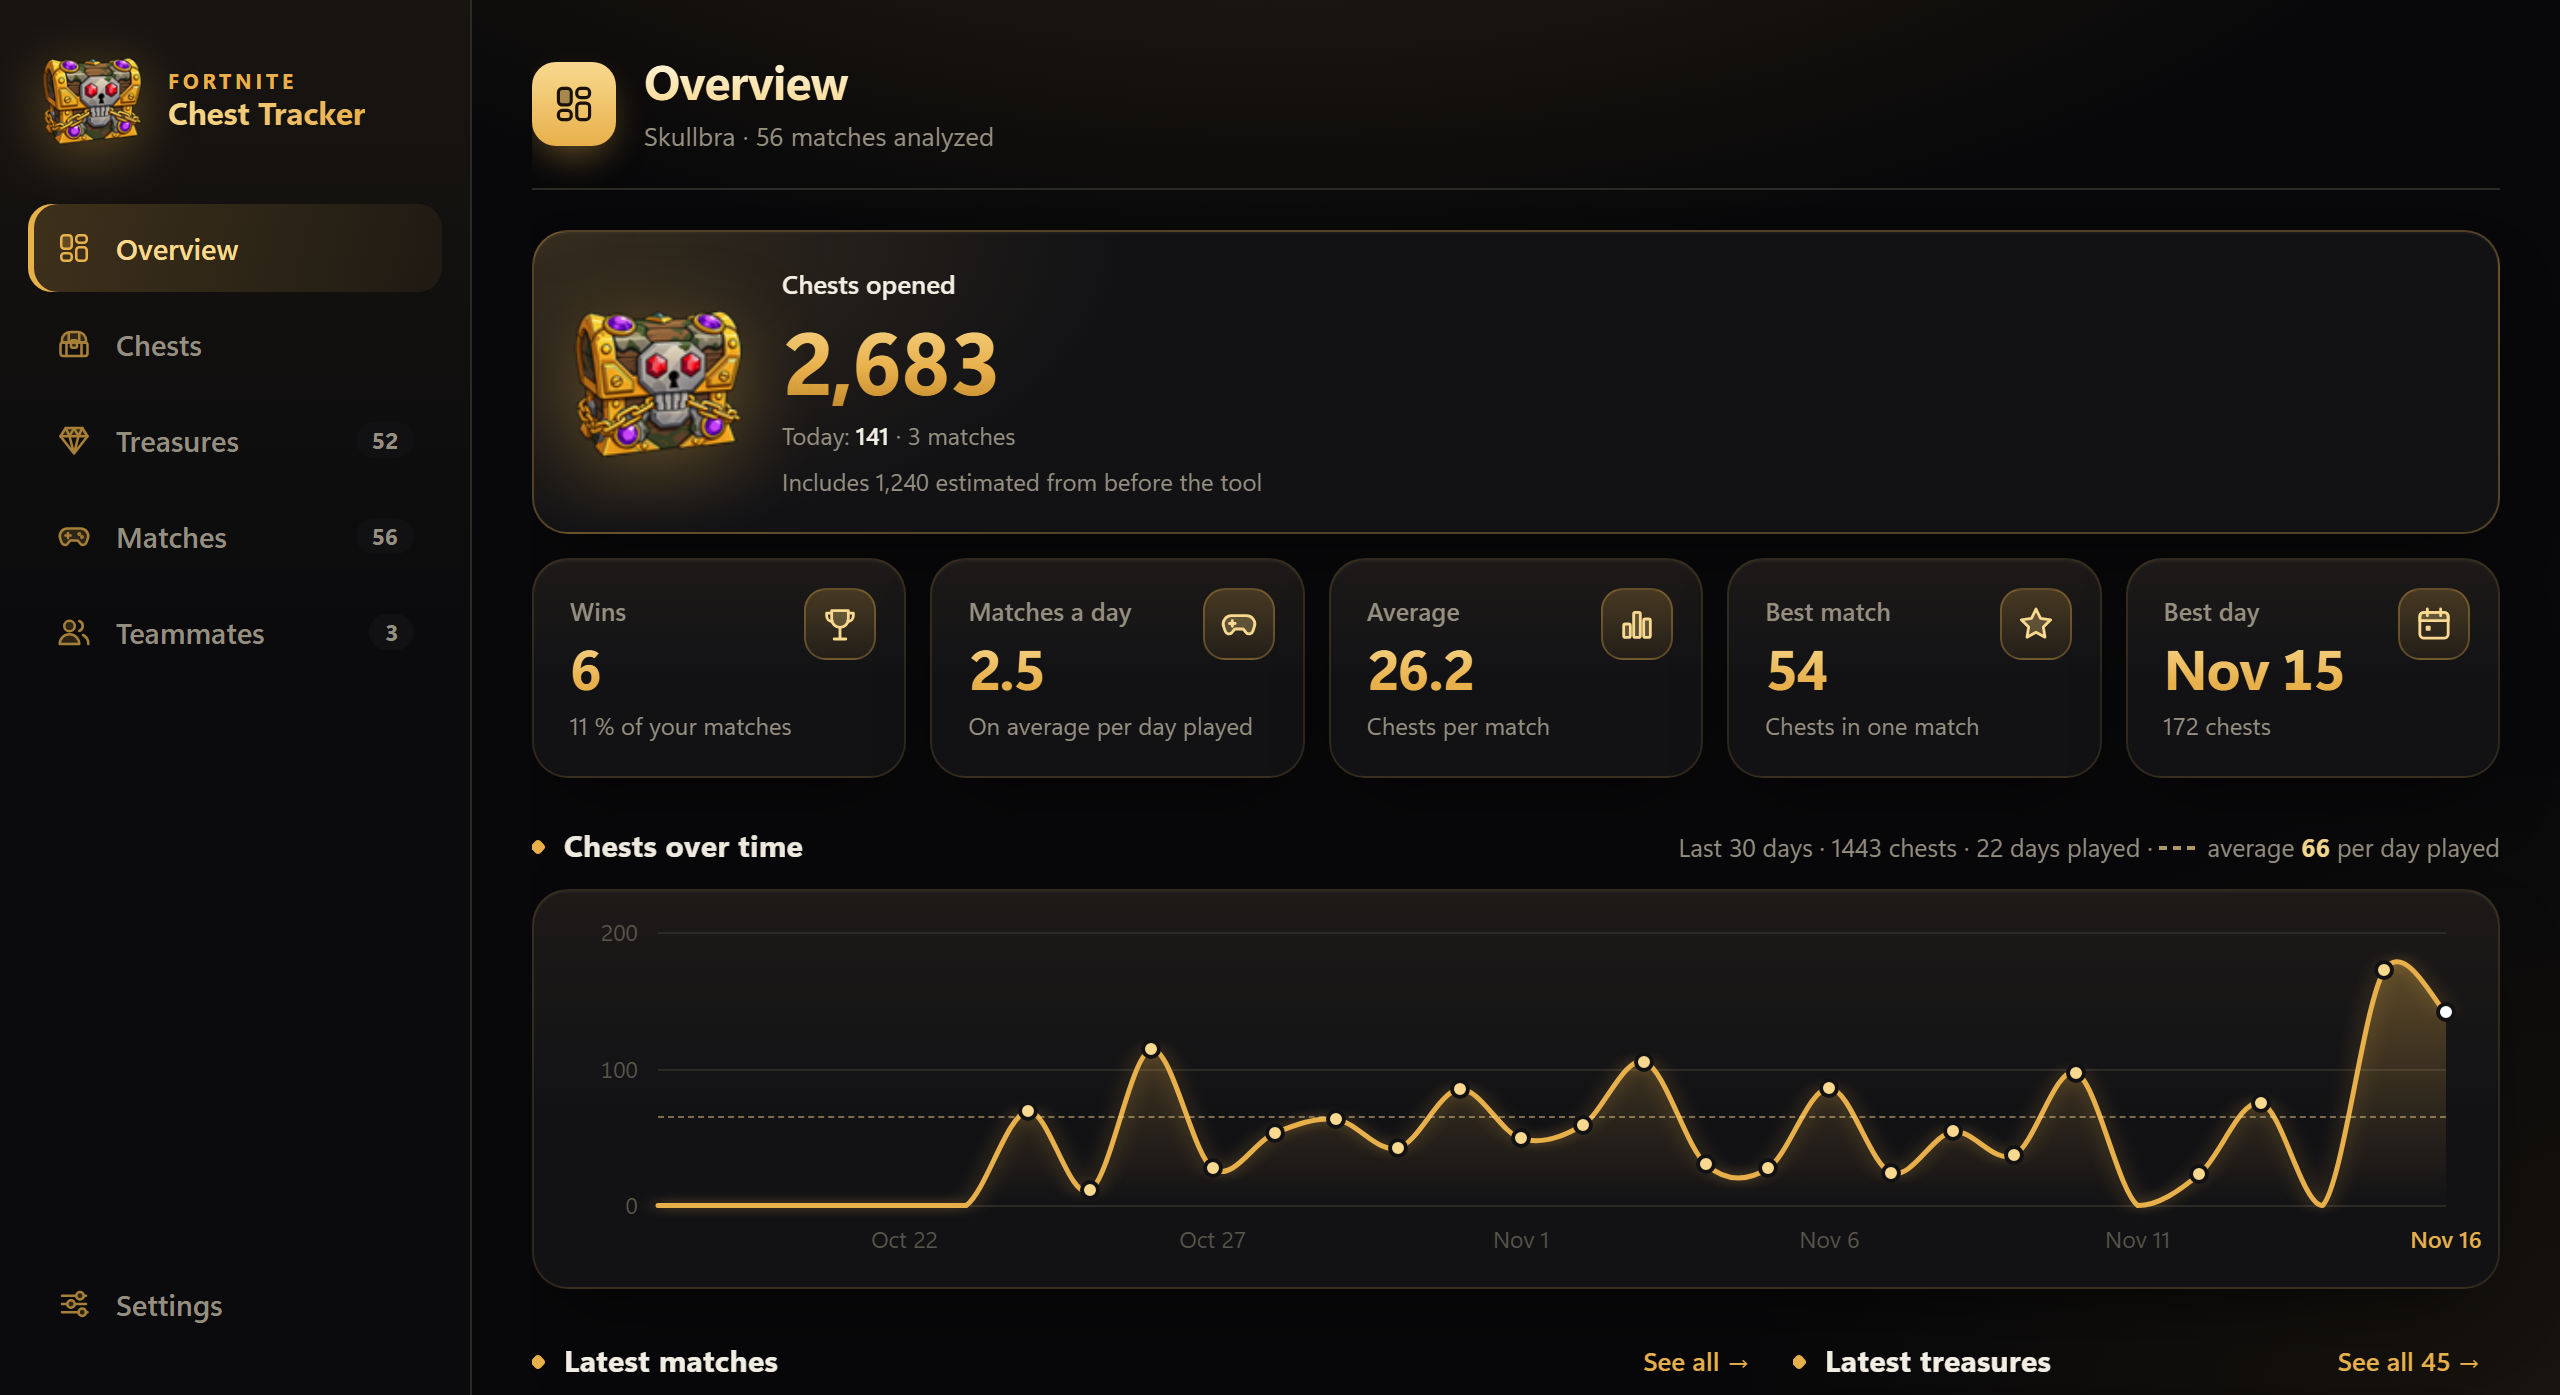
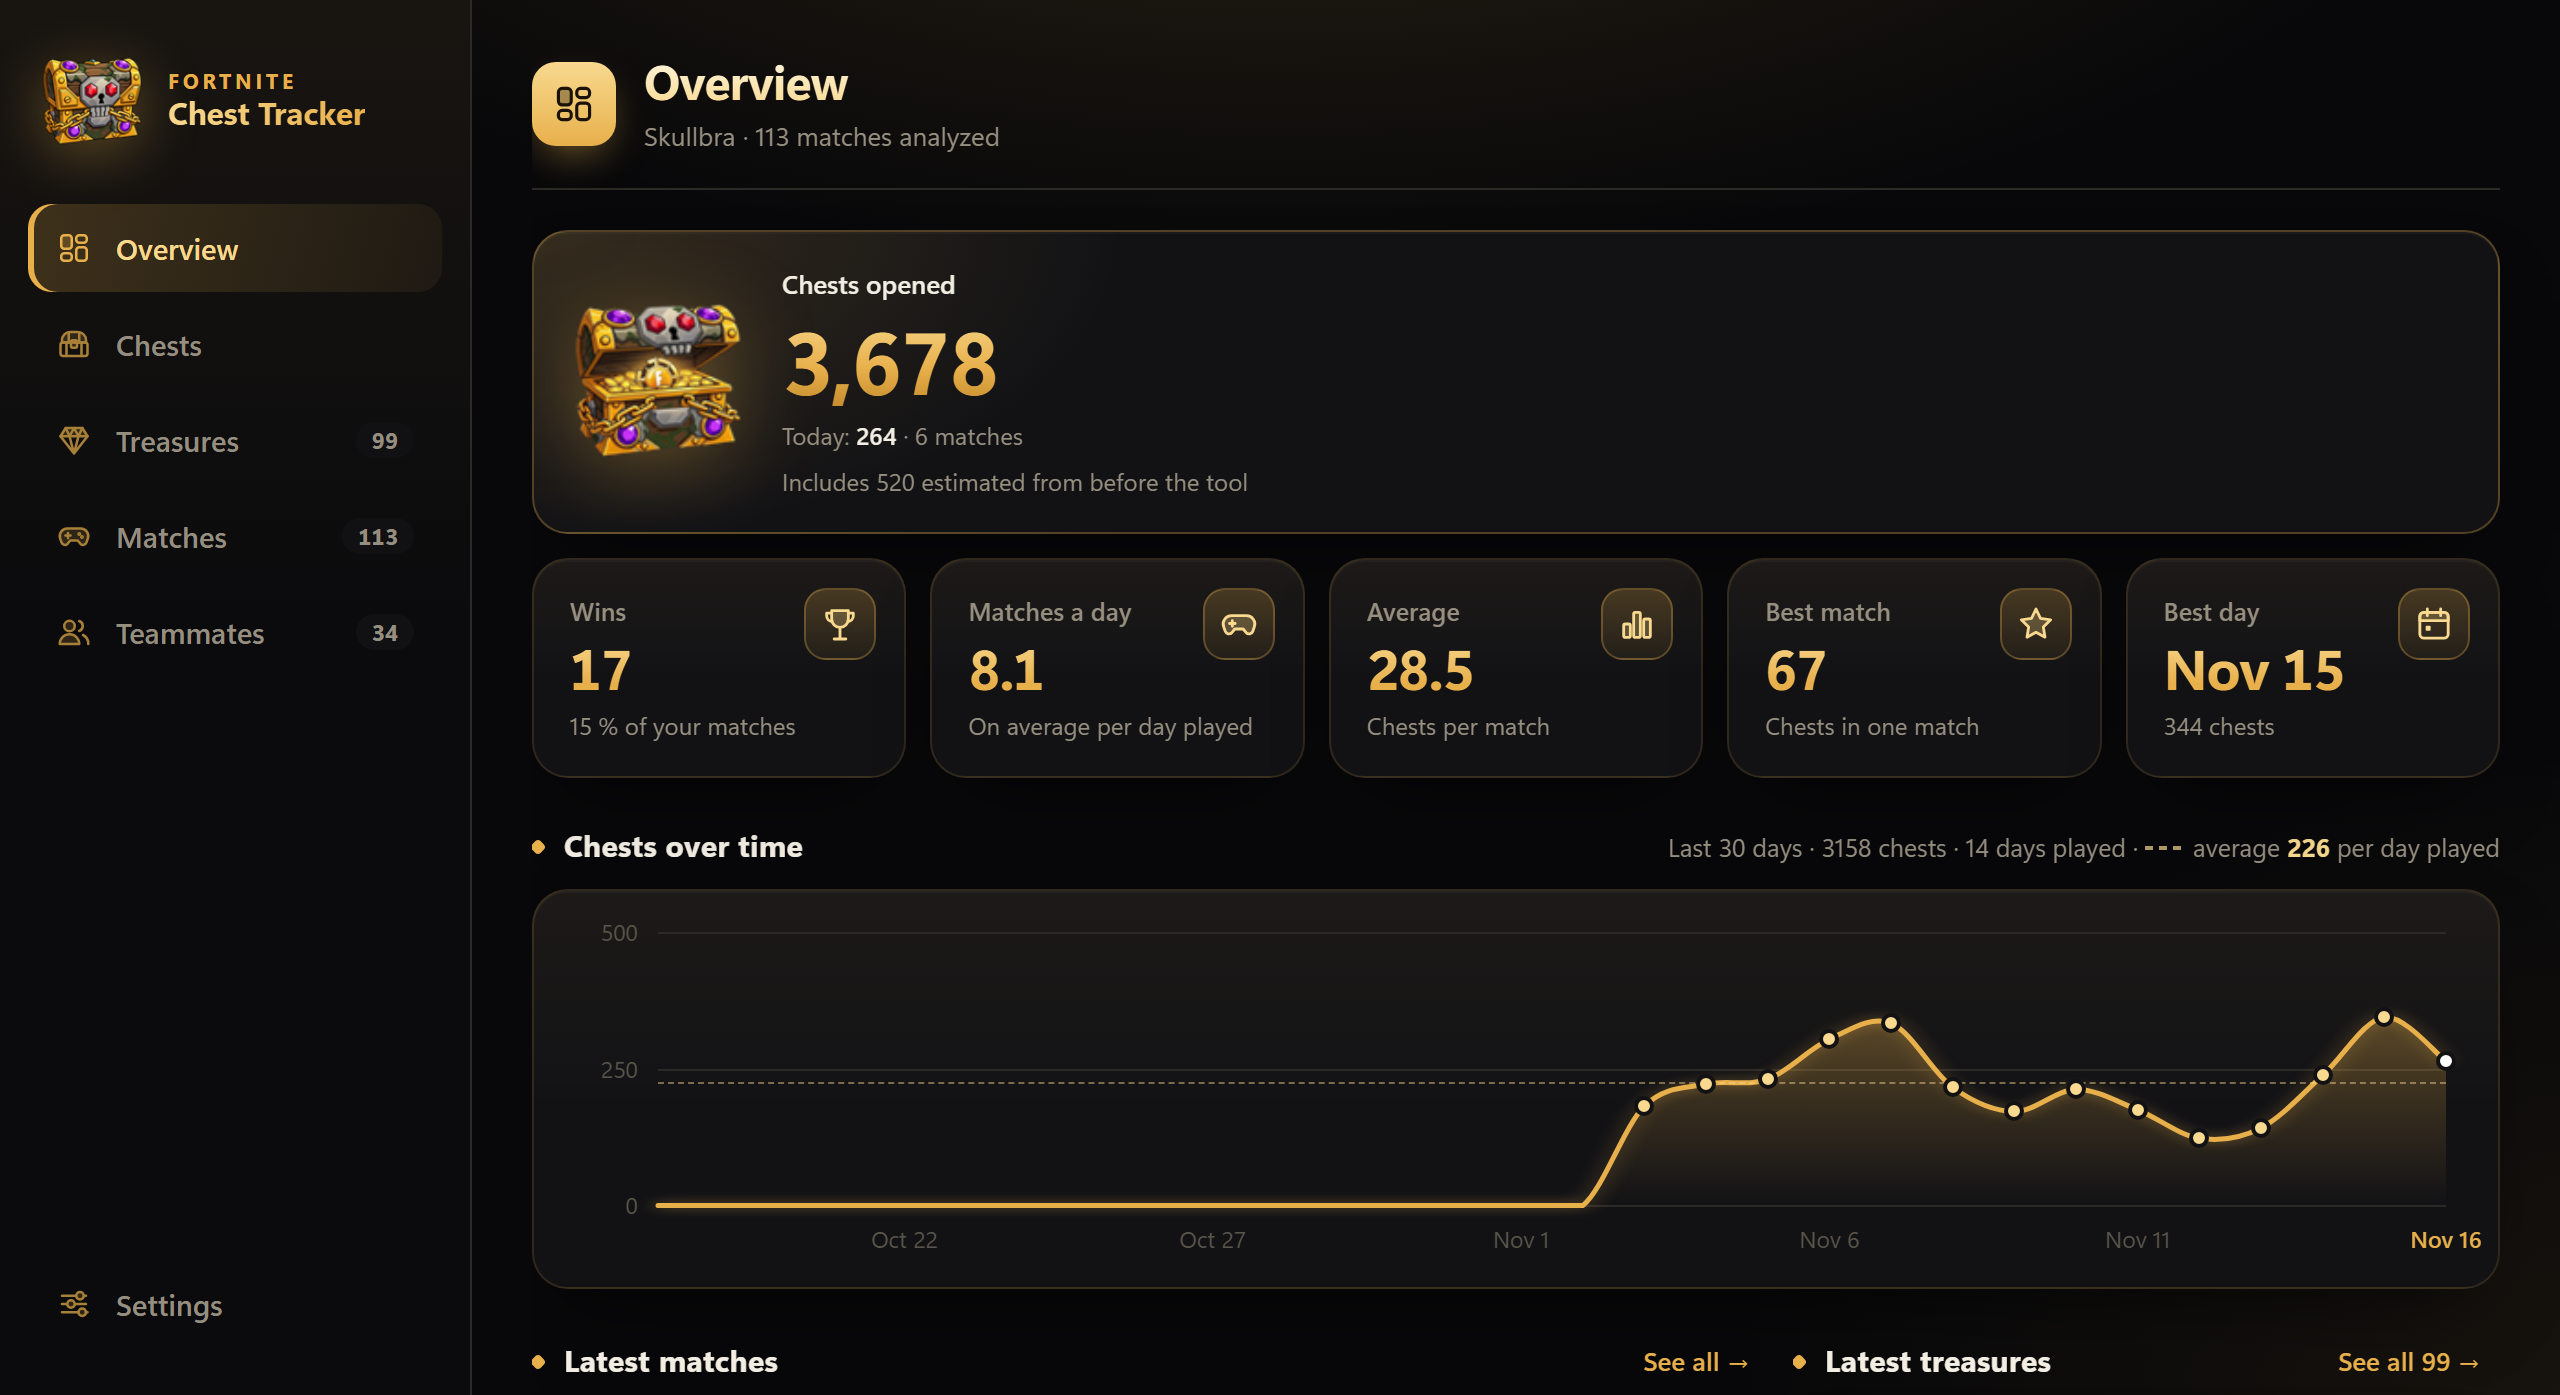
Regenerar capturas de README y web a resolución nativa con datos de ejemplo del evento

diff --git a/CHANGELOG.md b/CHANGELOG.md
@@ -5,7 +5,7 @@ Todas las versiones de Fortnite Chest Tracker (FCT). Sigue el [versionado semán
 ## [Sin publicar]
 
 - **Centrado de rivales sin desvío por la etiqueta de bot**: en la web de estadísticas (pestaña Tesoros), la columna Rival centra el nombre del jugador ignorando el ancho de la etiqueta «bot», la cual se sitúa a su derecha sin alterar el eje central y con margen visual suficiente.
-- **Documentación y capturas nativas al día**: capturas de la ventana de Configuración (`settings-es.png` y `settings-en.png`) renovadas a doble resolución mostrando el nuevo panel de Copia de seguridad y datos consistentes con Skullbra. Se documenta la restauración de copias de seguridad en `README.md` y `README.es.md`.
+- **Documentación y capturas nativas al día**: todas las capturas de los README y de la web (ventana principal, overlay, Configuración con la copia de seguridad y las pestañas de estadísticas) se regeneran a resolución nativa con datos de ejemplo del evento (desde el 1 de noviembre, premios en su semana) y compañeros ficticios. Se documenta la copia de seguridad y los tesoros de rivales en `README.md` y `README.es.md`.
 - **Nueva herramienta oculta `--settings-preview`**: genera la vista previa de la ventana nativa de Configuración en PNG.
 - **Página web oficial bilingüe y capturas al día**: landing page en `docs/index.html` en español e inglés con selector estético y extensible de idioma, capturas oficiales regeneradas con la versión más reciente del programa (para la web y los README de GitHub) y descarga directa de `FCT.exe`.
 - **Descarga directa en la documentación**: los botones y enlaces de descarga de `README.md` y `README.es.md` apuntan directamente a la descarga de `FCT.exe` de la última versión, y los badges informativos se mantienen como elementos estáticos.
